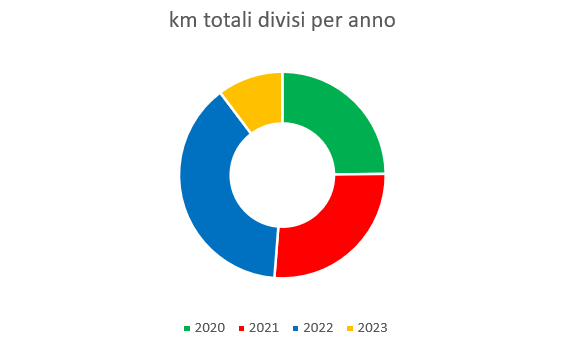
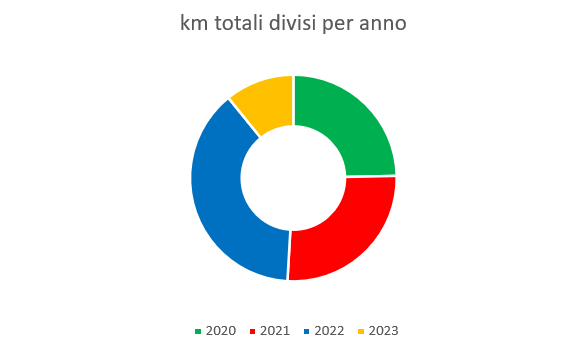
Add files via upload

diff --git a/Statistiche/Statistiche2023.html b/Statistiche/Statistiche2023.html
@@ -47,37 +47,43 @@
         <tr>
             <td>Gennaio</td>
             <td>127</td>
-            <td> 12,49%</td>
+            <td> 11,77%</td>
         </tr>
 
         <tr>
             <td>Febbraio</td>
             <td>148</td>
-            <td>14,55%</td>
+            <td>13,72%</td>
         </tr>
 
         <tr>
             <td>Marzo</td>
             <td>194</td>
-            <td>19,08%</td>
+            <td>17,98%</td>
         </tr>
 
         <tr>
             <td>Aprile</td>
             <td>103</td>
-            <td>10,13%</td>
+            <td>9,55%</td>
         </tr>
 
         <tr>
             <td>Maggio</td>
             <td>242</td>
-            <td>23,80%</td>
+            <td>22,43%</td>
         </tr>
 
         <tr>
             <td>Giugno</td>
-            <td>203</td>
-            <td>19,96%</td>
+            <td>265</td>
+            <td>24,56%</td>
+        </tr>
+
+        <tr>
+            <td>Luglio</td>
+            <td></td>
+            <td></td>
         </tr>
 
     </table>
@@ -87,10 +93,10 @@
     <br>
 
     <br>
-    <p>totale km 1017
+    <p>totale km 1079
         <img src="../Icone/traguardo.png">
     </p>
-    <p>km medi percorsi 56,50 km </p>
+    <p>km medi percorsi 56,79 km </p>
     <br>
     
 

diff --git a/Statistiche.html b/Statistiche.html
@@ -83,7 +83,7 @@
             </td>
 
             <td>
-                24,80%
+                24,70%
             </td>
 
         </tr>
@@ -99,7 +99,7 @@
             </td>
 
             <td>
-                26,40%
+                26,30%
             </td>
         </tr>
 
@@ -113,7 +113,7 @@
             </td>
 
             <td>
-                38,50%
+                38,20%
             </td>
 
         </tr>
@@ -124,11 +124,11 @@
             </td>
 
             <td>
-                1017
+                1079
             </td>
 
             <td>
-                10,30%
+                10,80%
             </td>
 
         </tr>
@@ -140,10 +140,11 @@
     <br>
 
     <br>
-    <p>totale km fatti 9895
+    <p>
+        totale km fatti 9957
         <img src="Icone/traguardo.png">
     </p>
-    <p>km medi percorsi 69,68 km </p>
+    <p>km medi percorsi 69,63 km </p>
     <br>
 
     <p class="corsivo">

diff --git a/Estate/Estate2023.html b/Estate/Estate2023.html
@@ -47,12 +47,12 @@
         </tr>
 
         <tr>
-            <td>data</td>
+            <td>24 giugno</td>
             <td>1</td>
             <td><a
-                    href="link">
-                    Testo</a></td>
-            <td>numero km</td>
+                    href="https://www.komoot.com/it-it/tour/1181657252?ref=wtd&share_token=aAtk3jwBTH6uhKP2TcrPerhh9rh8KLLJFyqfXfGbBHLptDZ1vT">
+                    Bressa + Ariis (Corsa Velocità)</a></td>
+            <td>62</td>
             <td>km</td>
         </tr>
 
@@ -60,10 +60,10 @@
 
 
     <br>
-    <p> totale km 0
+    <p> totale km 62
         <img src="../Icone/traguardo.png">
     </p>
-    <p>km medi percorsi 0</p>
+    <p>km medi percorsi 62</p>
 </body>
 
 </html>

diff --git a/Giri.html b/Giri.html
@@ -221,10 +221,10 @@
 
     <br>
     <p>
-        totale km fatti 9895
+        totale km fatti 9957
         <img src="Icone/traguardo.png">
     </p>
-    <p>km medi percorsi 69,68 km </p>
+    <p>km medi percorsi 69,63 km </p>
     <br>
 
     <br>

diff --git a/Estate.html b/Estate.html
@@ -103,7 +103,7 @@
                 </td>
     
                 <td>
-                    0
+                    62
                 </td>
             </tr>
 
